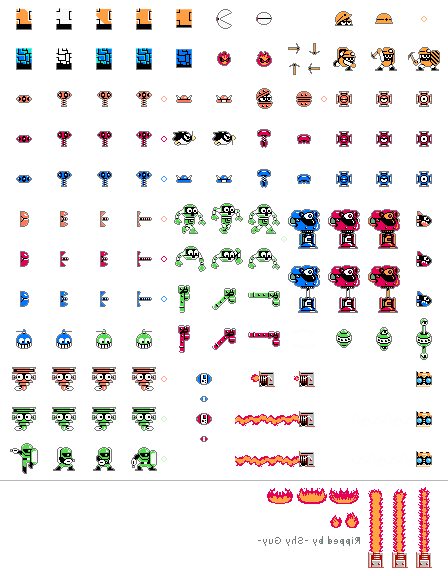
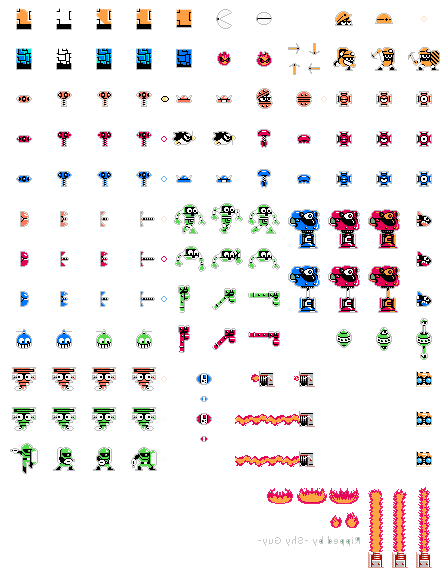
Beak and bullet

diff --git a/Rockman/Beak.cpp b/Rockman/Beak.cpp
@@ -59,9 +59,9 @@ CBeak::CBeak(int objID, int typeID, double posX, double posY, int width, int hei
 	m_TimeSpent = m_TimeShot = 0;
 	m_CurrentBullet = 0;
 	m_isTurnLeft = _isLeft;
-	m_Sprite = new CSprite(CResourceManager::GetInstance()->GetSprite(IMAGE_ENEMIES), D3DXVECTOR2(360, 455) , 4, 1, D3DXVECTOR2(40,420), D3DXVECTOR2(0, 0), D3DXVECTOR2(50,0));
+	m_Sprite = new CSprite(CResourceManager::GetInstance()->GetSprite(IMAGE_ENEMIES), D3DXVECTOR2(180, 267) , 4, 1, D3DXVECTOR2(20, 250), D3DXVECTOR2(0, 0), D3DXVECTOR2(30,0));
 	m_Size = D3DXVECTOR2(widthCollide, heightCollide);
-	m_pos = D3DXVECTOR3(posXCollide, posYCollide, 0);
+	m_pos = D3DXVECTOR3(posX, posY + height/2, 0);
 
 	UpdateRect();
 

diff --git a/Rockman/Bullet.cpp b/Rockman/Bullet.cpp
@@ -5,7 +5,7 @@
 CBullet::CBullet(D3DXVECTOR3 _pos)
 {
 	m_Type = BULLET;
-	m_Sprite = new CSprite(CResourceManager::GetInstance()->GetSprite(IMAGE_ENEMIES), D3DXVECTOR2(335,205), 1, 1, D3DXVECTOR2(320,190));
+	m_Sprite = new CSprite(CResourceManager::GetInstance()->GetSprite(IMAGE_ENEMIES), D3DXVECTOR2(170, 105), 1, 1, D3DXVECTOR2(160, 95));
 	m_pos = _pos;
 	m_posInit = _pos;
 

diff --git a/Rockman/BulletRockman.cpp b/Rockman/BulletRockman.cpp
@@ -10,8 +10,8 @@ CBulletRockman::CBulletRockman(D3DXVECTOR3 _pos)
 {
 	m_Type = BULLET;
 	m_Sprite = new CSprite(CResourceManager::GetInstance()->GetSprite(IMAGE_ENEMIES)
-		, D3DXVECTOR2(335,205), 1, 1
-		, D3DXVECTOR2(320,190));
+		, D3DXVECTOR2(170, 105), 1, 1
+		, D3DXVECTOR2(155, 95));
 	m_pos = _pos;
 
 	m_accel = D3DXVECTOR2(0,0);
